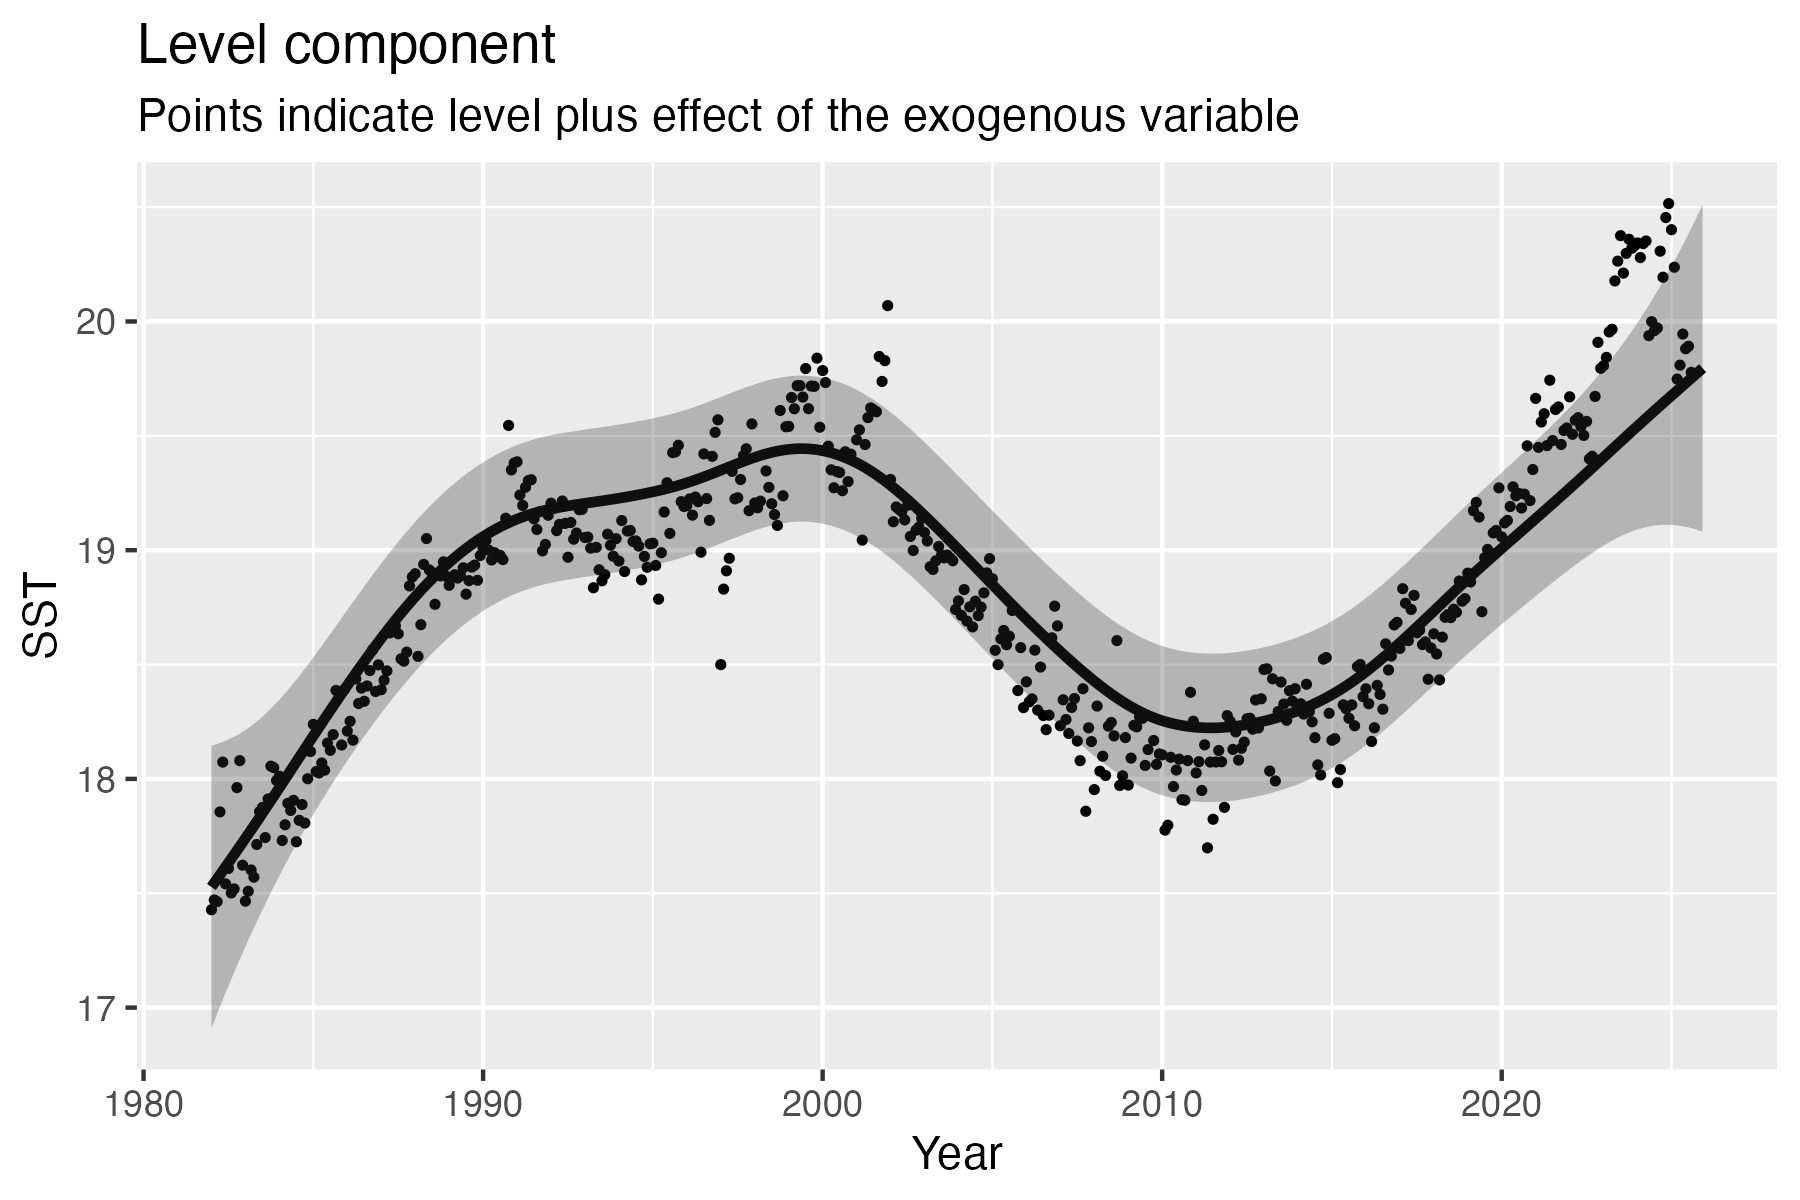
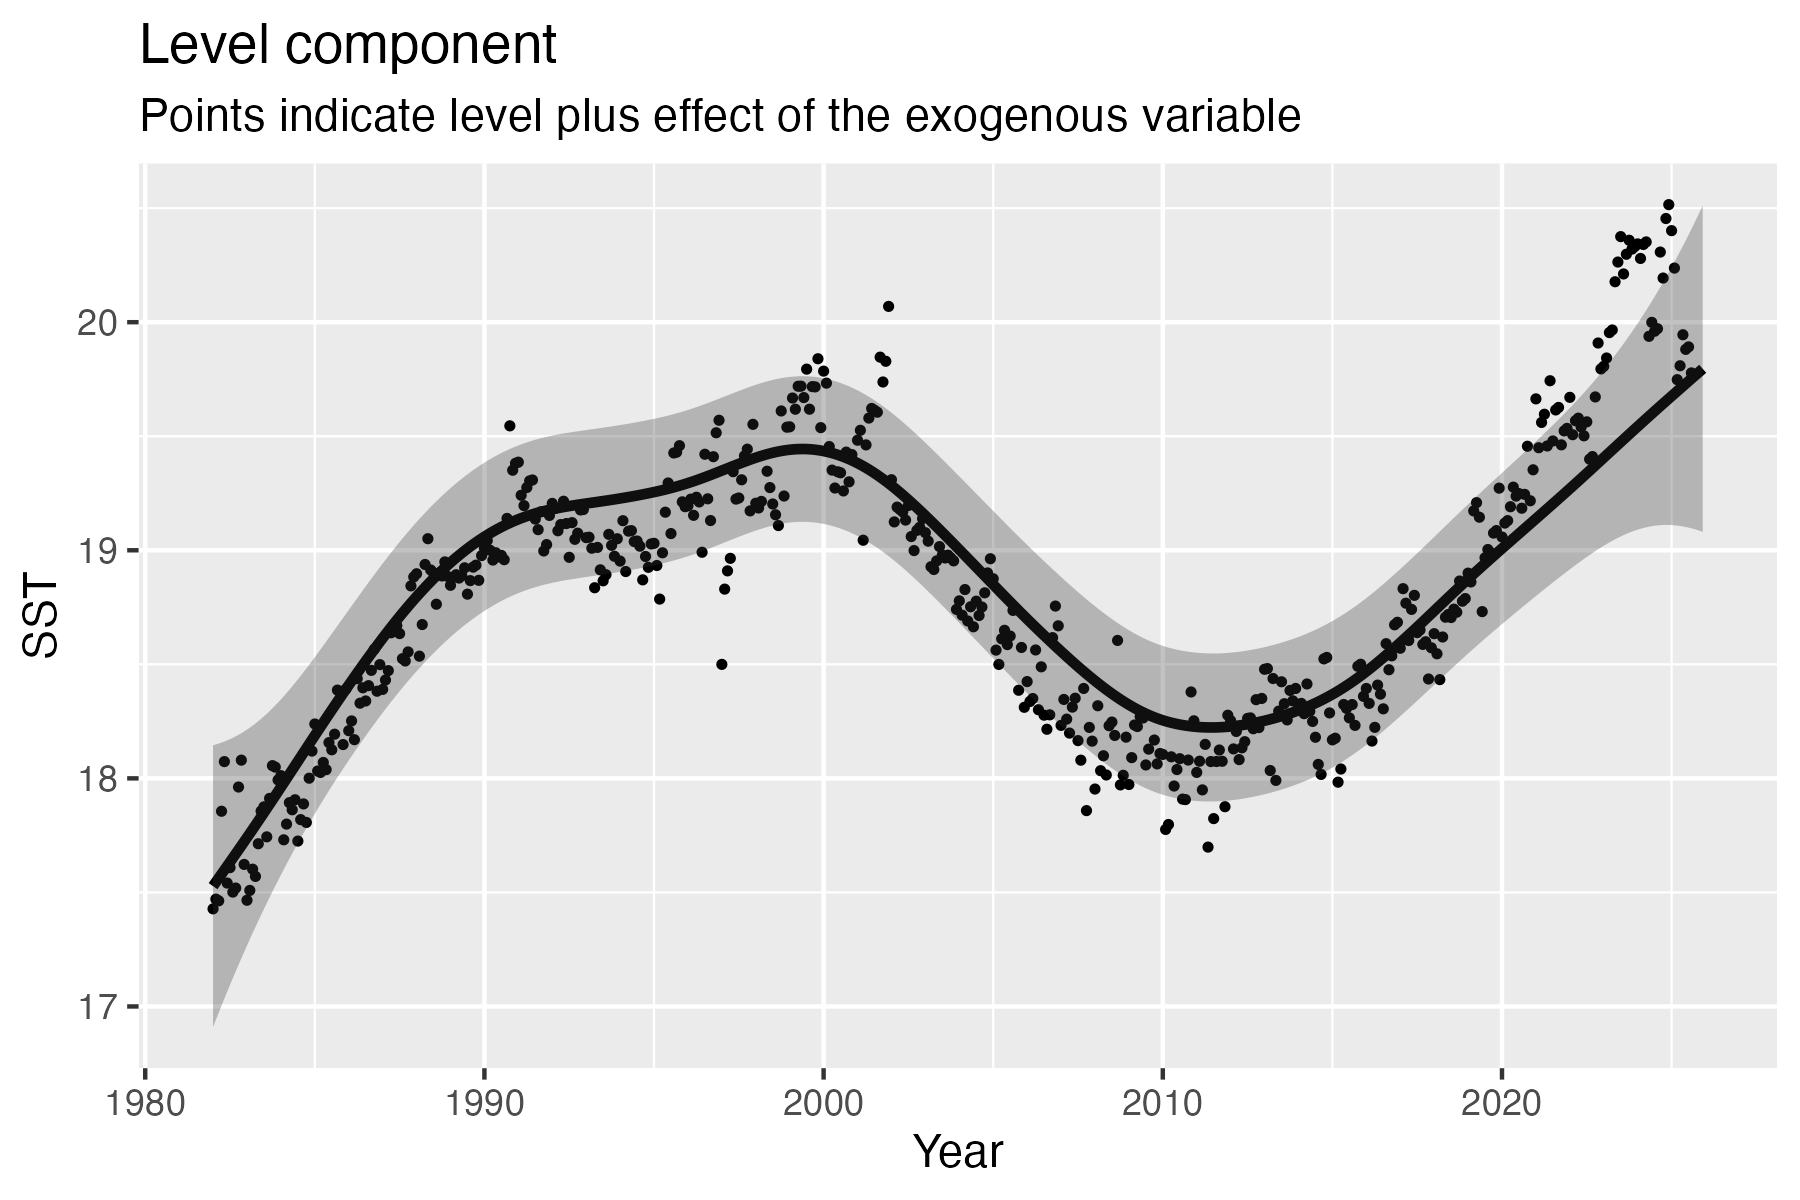
update CI

diff --git a/SST_ts_analyses.md b/SST_ts_analyses.md
@@ -469,6 +469,11 @@
 
 # M0モデルの推定結果の確認
 
+    #モデル推定の収束の確認
+    fit_M0$optim.out$convergence
+
+    ## [1] 0
+
     par_M0 <- fit_M0$optim.out$par #モデルの推定パラメーター
     par_comp_M0 <- c(Q_trend  = exp(par_M0[1]), # 年トレンドの大きさ
                       Q_season = exp(par_M0[2]), # 季節トレンドの大きさ
@@ -887,6 +892,11 @@
 
 # 推定結果の確認
 
+    #モデル推定の収束の確認
+    fit_M1$optim.out$convergence
+
+    ## [1] 0
+
     par_M1 <- fit_M1$optim.out$par #モデルの推定パラメーター
     par_comp_M1 <- c(Q_trend  = exp(par_M1[1]), # 年トレンドの大きさ
                       Q_season = exp(par_M1[2]), # 季節トレンドの大きさ
@@ -930,30 +940,21 @@
     #外生変数の効果の推定値
     #全時点で固定された係数(Q = 0)だが機械的な丸め誤差が生じるため最初の値を用いる
     beta_kuroshio_scaled <- alpha_hat_M1[,"Kuroshio_scaled"][1]
-    print(beta_kuroshio_scaled)
+    beta_kuroshio_scaled
 
     ## [1] 0.2401847
 
-    ##外生変数の信頼区間
-    state_names_M1 <- colnames(alpha_hat_M1)
-    idx_M1 <- which(state_names_M1 == "Kuroshio_scaled")
-    V_alpha_M1 <- result_M1$V #共分散行列の取り出し
-    var_beta_M1 <- V_alpha_M1[1, idx_M1, idx_M1] #共分散行列からkuroshio_scaledの分散を取り出す（全時点で固定）
-    se_beta_M1  <- sqrt(var_beta_M1)
+    ci_95_beta_M1 <- res_M1[c("Kuroshio_scaled")] %>% lapply(head, n = 1)
+    ci_95_beta_M1
 
-    ci_95_beta_M1 <- c(
-      lower = beta_kuroshio_scaled  - 1.96 * se_beta_M1,
-      upper = beta_kuroshio_scaled  + 1.96 * se_beta_M1
-    )
-    print(ci_95_beta_M1)
-
-    ##     lower     upper 
-    ## 0.1444063 0.3359632
+    ## $Kuroshio_scaled
+    ##               lwr       upr
+    ## Jan 1982 0.144408 0.3359615
 
     #元スケールに変換(黒潮続流北限緯度が 1 度北上すると SST は beta推定値だけ変化)
     sd_kuroshio <- sd(SST_Kuroshio_ts[,"Kuroshio"],na.rm=TRUE)
     beta_kuroshio_per_deg <- beta_kuroshio_scaled /sd_kuroshio
-    print(beta_kuroshio_per_deg)
+    beta_kuroshio_per_deg
 
     ## [1] 0.2346265
 
